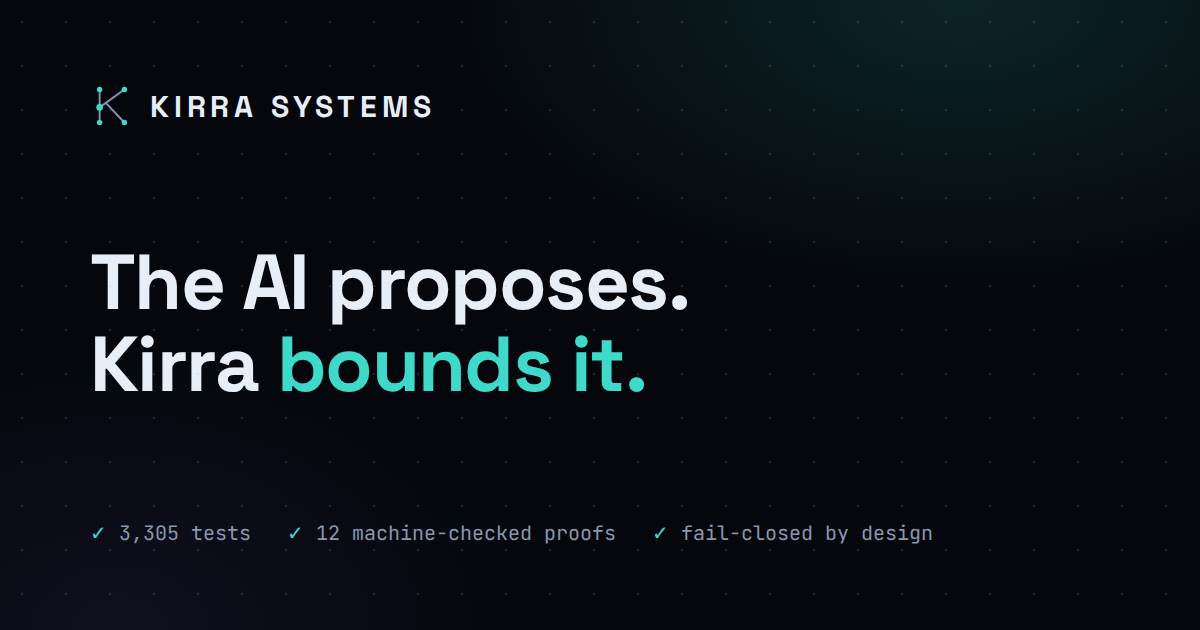
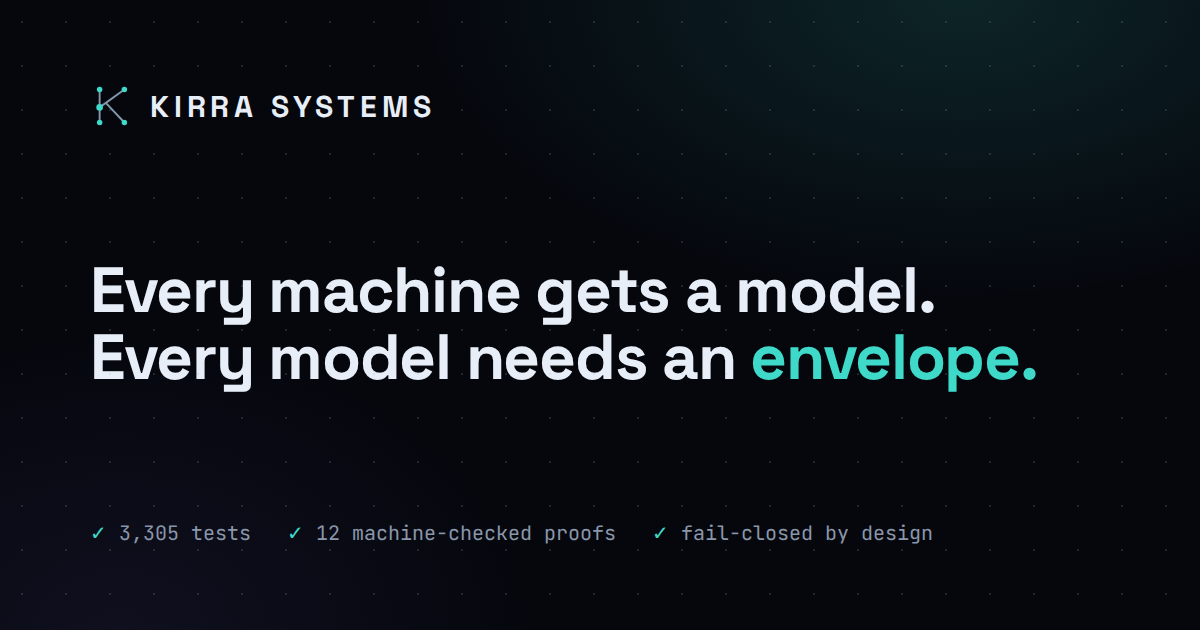
website: make the vision the homepage's central theme
Invert the homepage narrative from mechanism-first to thesis-first:

- Hero: 'Every machine gets a model. Every model needs an envelope.'
  with the capability-vs-verification thesis as the lede; primary CTA
  now leads to the vision.
- New section 2 'The world of tomorrow': the runtime-assurance bet,
  the three converging forces (with evidence chips), and the
  four-layer stack visual — the old bottom-of-page vision band is
  absorbed here and removed.
- The former hero line 'The AI proposes. Kirra bounds it.' becomes the
  headline of the mechanism section, framed as 'How we get there';
  use-cases become 'The stakes today'; hardware becomes 'From thesis
  to metal' — every technical section now reads as delivery of the
  vision.
- OG image and meta description updated to the new headline.

Verified headlessly: hero + new section render, no dead anchors.

Claude-Session: https://claude.ai/code/session_01KTsHnUqrZ1th9Vq3mfUvg7

Changed region(s): [[0.0617, 0.3921, 0.8633, 0.6333]]

diff --git a/website/index.html b/website/index.html
@@ -4,19 +4,19 @@
   <meta charset="UTF-8">
   <meta name="viewport" content="width=device-width, initial-scale=1.0">
   <title>Kirra Systems — Fail-Closed Safety Governor for Autonomous Machines</title>
-  <meta name="description" content="Kirra is a fail-closed runtime safety governor for AI-driven robots and vehicles. Planners propose; a deterministic, formally checked envelope decides what reaches the actuators. Open source, in Rust.">
+  <meta name="description" content="Every machine is getting a model, and no model is certifiable. Kirra is the governed layer of autonomy: a fail-closed, machine-checked envelope between AI intent and actuation. Open source, in Rust.">
   <link rel="canonical" href="https://kirrasystems.com/">
   <meta property="og:type" content="website">
   <meta property="og:site_name" content="Kirra Systems">
   <meta property="og:title" content="Kirra Systems — Fail-Closed Safety Governor for Autonomous Machines">
-  <meta property="og:description" content="Kirra is a fail-closed runtime safety governor for AI-driven robots and vehicles. Planners propose; a deterministic, formally checked envelope decides what reaches the actuators. Open source, in Rust.">
+  <meta property="og:description" content="Every machine is getting a model, and no model is certifiable. Kirra is the governed layer of autonomy: a fail-closed, machine-checked envelope between AI intent and actuation. Open source, in Rust.">
   <meta property="og:url" content="https://kirrasystems.com/">
   <meta property="og:image" content="https://kirrasystems.com/assets/og.png">
   <meta property="og:image:width" content="1200">
   <meta property="og:image:height" content="630">
   <meta name="twitter:card" content="summary_large_image">
   <meta name="twitter:title" content="Kirra Systems — Fail-Closed Safety Governor for Autonomous Machines">
-  <meta name="twitter:description" content="Kirra is a fail-closed runtime safety governor for AI-driven robots and vehicles. Planners propose; a deterministic, formally checked envelope decides what reaches the actuators. Open source, in Rust.">
+  <meta name="twitter:description" content="Every machine is getting a model, and no model is certifiable. Kirra is the governed layer of autonomy: a fail-closed, machine-checked envelope between AI intent and actuation. Open source, in Rust.">
   <meta name="twitter:image" content="https://kirrasystems.com/assets/og.png">
   <meta name="theme-color" content="#05070d">
   <link rel="icon" href="favicon.svg" type="image/svg+xml">
@@ -97,14 +97,14 @@
     <section class="hero" aria-label="Introduction">
       <canvas class="hero__canvas" id="heroField" aria-hidden="true"></canvas>
       <div class="container">
-        <p class="hero__eyebrow eyebrow">Runtime legitimacy engine · Safety governor</p>
-        <h1>The AI proposes.<br>Kirra <span class="accent">bounds it.</span></h1>
-        <p class="lede">Kirra is a fail-closed runtime safety governor for AI-driven robots and vehicles.
-        Planners — geometric, learned, or LLM-driven — only ever <em>propose</em>. A deterministic,
-        machine-checked envelope decides what reaches the actuators, and denies by default when
-        anything is missing, stale, malformed, or unproven.</p>
+        <p class="hero__eyebrow eyebrow">The governed layer of autonomy</p>
+        <h1>Every machine gets a model.<br>Every model needs an <span class="accent">envelope.</span></h1>
+        <p class="lede">AI capability is outrunning verification — and no amount of training makes a model
+        certifiable. Kirra is the fail-closed runtime layer that closes that gap: planners, learned policies,
+        and LLMs only ever <em>propose</em>, while a deterministic, machine-checked envelope decides what
+        reaches the actuators. The models will keep changing. The envelope is forever.</p>
         <div class="hero__ctas">
-          <a class="btn btn--primary" href="architecture.html">Explore the architecture <span class="arrow" aria-hidden="true">→</span></a>
+          <a class="btn btn--primary" href="vision.html">Where autonomy is heading <span class="arrow" aria-hidden="true">→</span></a>
           <a class="btn btn--ghost" href="https://github.com/kirra-systems/kirra-runtime-sdk" target="_blank" rel="noopener">Read the source ↗</a>
         </div>
         <p class="hero__proof">
@@ -117,11 +117,62 @@
       </div>
     </section>
 
+    <!-- ═══════════ THE VISION ═══════════ -->
+    <section id="tomorrow" aria-labelledby="h-tomorrow">
+      <div class="container">
+        <div class="section-head">
+          <p class="eyebrow" data-reveal>The world of tomorrow</p>
+          <h2 id="h-tomorrow" data-reveal>Autonomy will be won by whoever<br>can prove safety at runtime.</h2>
+          <p class="lede" data-reveal>Three forces make the governed layer inevitable — and every technical
+          decision on this site exists to build it.</p>
+        </div>
+        <div class="grid grid--3">
+          <div class="card" data-reveal>
+            <h3>AI is outrunning verification</h3>
+            <p>Foundation models are entering planners and language is becoming a robot interface. You can't
+            test a distribution into being safe — but you can bound what any of it is permitted to do.</p>
+            <p class="evidence-row"><a class="evidence" href="https://github.com/kirra-systems/kirra-runtime-sdk/blob/main/docs/adr/0020-doer-invariant-safety-case.md" target="_blank" rel="noopener">docs/adr/0020-doer-invariant-safety-case.md</a></p>
+          </div>
+          <div class="card" data-reveal>
+            <h3>Regulation demands runtime assurance</h3>
+            <p>UL 4600, SOTIF, ASTM F3269, and the emerging AI-safety standards all converge on the same
+            architecture: an untrusted complex function behind a verifiable monitor. Kirra maintains open,
+            versioned mappings to each.</p>
+            <p class="evidence-row"><a class="evidence" href="https://github.com/kirra-systems/kirra-runtime-sdk/blob/main/docs/safety/ASTM_F3269_RTA_MAPPING.md" target="_blank" rel="noopener">docs/safety/ASTM_F3269_RTA_MAPPING.md</a><a class="evidence" href="https://github.com/kirra-systems/kirra-runtime-sdk/blob/main/docs/safety/UL4600_SAFETY_CASE.md" target="_blank" rel="noopener">docs/safety/UL4600_SAFETY_CASE.md</a></p>
+          </div>
+          <div class="card" data-reveal>
+            <h3>Platforms need a decision layer</h3>
+            <p>Certified hypervisors and safety-rated silicon solve isolation and compute — not whether a
+            command is safe. Kirra is built as the decision layer for exactly those platforms, as an SEooC
+            designed for integration.</p>
+            <p class="evidence-row"><a class="evidence" href="https://github.com/kirra-systems/kirra-runtime-sdk/blob/main/docs/adr/0032-governor-deployment-platform.md" target="_blank" rel="noopener">docs/adr/0032-governor-deployment-platform.md</a></p>
+          </div>
+        </div>
+        <div class="grid grid--2" style="align-items:center;gap:48px;margin-top:40px">
+          <div style="display:grid;gap:10px" data-reveal aria-hidden="true">
+            <div class="card" style="padding:16px 22px"><p class="mono dim" style="font-size:0.8rem">AI doer stacks — unverifiable, swappable</p></div>
+            <div class="card" style="padding:16px 22px;border-color:var(--accent-line);background:var(--accent-soft)"><p class="mono" style="font-size:0.8rem;color:var(--accent)">KIRRA — the governed layer (SEooC)</p></div>
+            <div class="card" style="padding:16px 22px"><p class="mono dim" style="font-size:0.8rem">certified OS / hypervisor — QNX 8.0 target</p></div>
+            <div class="card" style="padding:16px 22px"><p class="mono dim" style="font-size:0.8rem">safety-rated silicon — vendor-neutral inference</p></div>
+          </div>
+          <div data-reveal>
+            <h3>The one durable interface</h3>
+            <p class="muted" style="margin-top:10px">Models will keep changing. Sensors will keep changing. The
+            interface that endures is the envelope between intent and actuation — proven, portable, and built to
+            sit inside certified platforms rather than compete with them.</p>
+            <p style="margin-top:16px"><a class="card__more" href="vision.html">The full vision <span aria-hidden="true">→</span></a></p>
+          </div>
+        </div>
+      </div>
+    </section>
+
+    <hr class="rule">
+
     <!-- ═══════════ USE CASES ═══════════ -->
     <section id="use-cases" aria-labelledby="h-uses">
       <div class="container">
         <div class="section-head">
-          <p class="eyebrow" data-reveal>What it protects</p>
+          <p class="eyebrow" data-reveal>The stakes today</p>
           <h2 id="h-uses" data-reveal>Machines make mistakes.<br>Kirra makes them survivable.</h2>
           <p class="lede" data-reveal>The same checker, holding very different machines to their physics —
           each of these is a real failure mode with a real mechanism behind it.</p>
@@ -162,11 +213,12 @@
     <section id="architecture" aria-labelledby="h-arch">
       <div class="container">
         <div class="section-head">
-          <p class="eyebrow" data-reveal>The core idea</p>
-          <h2 id="h-arch" data-reveal>Doers are swappable.<br>The checker is the invariant.</h2>
-          <p class="lede" data-reveal>Every autonomy stack has a component that decides what the vehicle does next.
-          Kirra assumes that component is wrong — hallucinating, compromised, or simply buggy — and
-          makes safety a property of a separate, smaller, provable layer that no doer can bypass.</p>
+          <p class="eyebrow" data-reveal>How we get there</p>
+          <h2 id="h-arch" data-reveal>The AI proposes.<br>Kirra <span style="color:var(--accent)">bounds it.</span></h2>
+          <p class="lede" data-reveal>The mechanism that delivers the vision: every autonomy stack has a component
+          that decides what the vehicle does next, and Kirra assumes that component is wrong — hallucinating,
+          compromised, or simply buggy. Doers are swappable; the checker is the invariant — a separate, smaller,
+          provable layer that no doer can bypass.</p>
         </div>
         <div class="diagram-frame flow-anim" data-reveal>
 <svg viewBox="0 0 960 400" role="img" aria-labelledby="archTitle archDesc">
@@ -560,8 +612,8 @@
     <section id="hardware" aria-labelledby="h-hw">
       <div class="container">
         <div class="section-head">
-          <p class="eyebrow" data-reveal>Proven on metal</p>
-          <h2 id="h-hw" data-reveal>From simulator to first governed motion</h2>
+          <p class="eyebrow" data-reveal>From thesis to metal</p>
+          <h2 id="h-hw" data-reveal>The vision, driving a real robot</h2>
         </div>
         <div class="grid grid--3">
           <div class="card" data-reveal>
@@ -601,31 +653,6 @@
           <a class="btn btn--ghost" href="certification.html">Read the certification posture <span class="arrow" aria-hidden="true">→</span></a>
         </div>
         <p class="evidence-row" style="justify-content:center" data-reveal><a class="evidence" href="https://github.com/kirra-systems/kirra-runtime-sdk/blob/main/README.md#L117" target="_blank" rel="noopener">README — the claim, verbatim</a><a class="evidence" href="https://github.com/kirra-systems/kirra-runtime-sdk/blob/main/docs/safety/" target="_blank" rel="noopener">docs/safety — 65 artifacts</a></p>
-      </div>
-    </section>
-
-    <hr class="rule">
-
-    <!-- ═══════════ WHERE THIS FITS ═══════════ -->
-    <section id="vision" aria-labelledby="h-vision">
-      <div class="container">
-        <div class="grid grid--2" style="align-items:center;gap:48px">
-          <div class="section-head" style="margin-bottom:0">
-            <p class="eyebrow" data-reveal>The world of tomorrow</p>
-            <h2 id="h-vision" data-reveal>Every machine gets a model.<br>Every model needs an envelope.</h2>
-            <p class="lede" data-reveal>Capability is outrunning verification, and regulation is converging on
-            runtime assurance. The durable layer in that future isn't any particular AI stack — it's the provable
-            envelope between intent and actuation, engineered as a safety element for integration into certified
-            platforms.</p>
-            <p data-reveal style="margin-top:18px"><a class="card__more" href="vision.html">Where Kirra fits <span aria-hidden="true">→</span></a></p>
-          </div>
-          <div style="display:grid;gap:10px" data-reveal aria-hidden="true">
-            <div class="card" style="padding:16px 22px"><p class="mono dim" style="font-size:0.8rem">AI doer stacks — unverifiable, swappable</p></div>
-            <div class="card" style="padding:16px 22px;border-color:var(--accent-line);background:var(--accent-soft)"><p class="mono" style="font-size:0.8rem;color:var(--accent)">KIRRA — the governed layer (SEooC)</p></div>
-            <div class="card" style="padding:16px 22px"><p class="mono dim" style="font-size:0.8rem">certified OS / hypervisor — QNX 8.0 target</p></div>
-            <div class="card" style="padding:16px 22px"><p class="mono dim" style="font-size:0.8rem">safety-rated silicon — vendor-neutral inference</p></div>
-          </div>
-        </div>
       </div>
     </section>
 